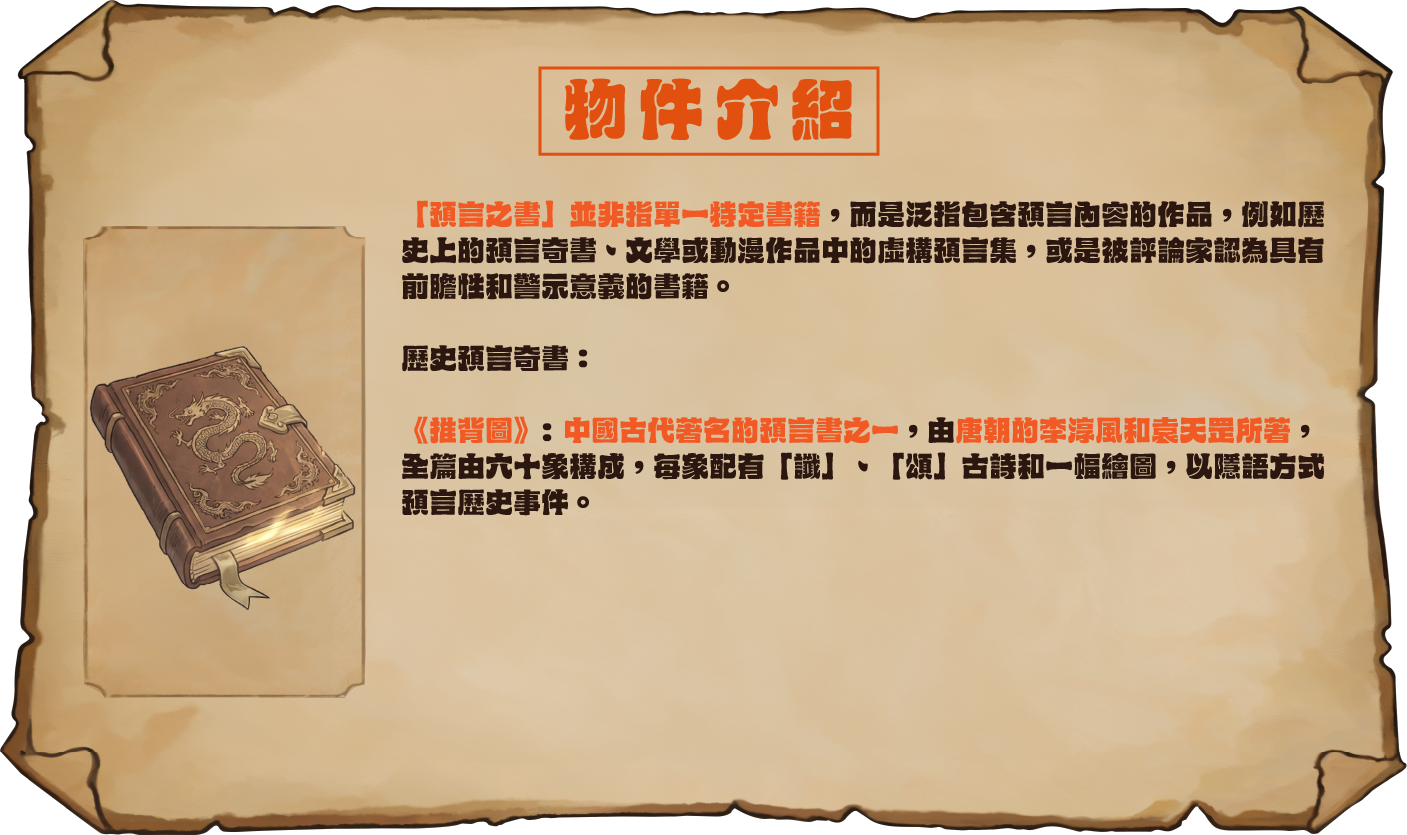
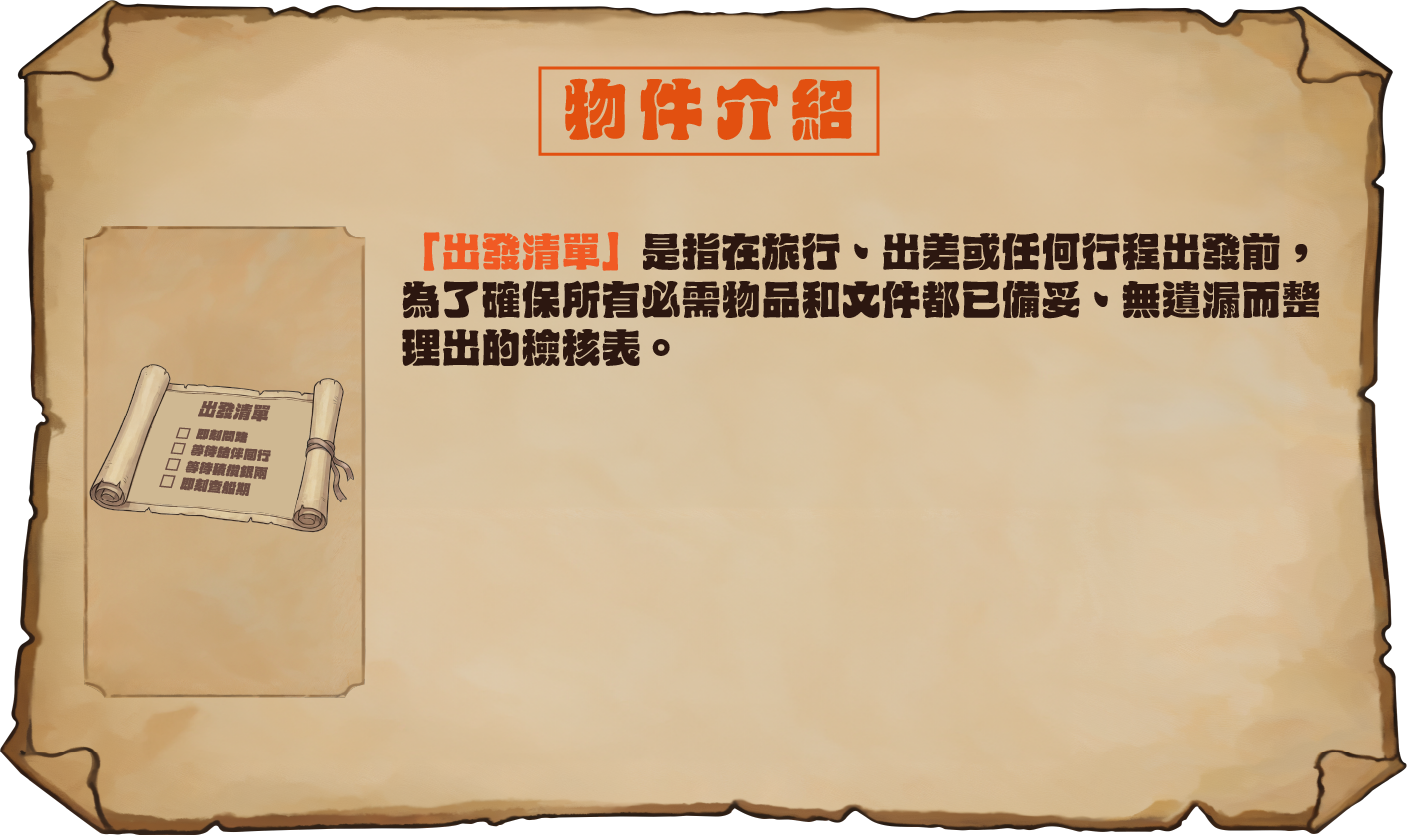
update item panel, game 1

Changed region(s): [[0.2751, 0.218, 0.9474, 0.4671], [0.0611, 0.4048, 0.9474, 0.7162]]

diff --git a/src/UI/Panel.js b/src/UI/Panel.js
@@ -240,40 +240,25 @@ export class ItemsPanel extends Phaser.GameObjects.Container {
 
         const itemsContent = [
             {
-                itemKey: 'itempage_item1',
-                itemSelectKey: 'itempage_item1_select',
-                itemDescriptionKey: 'itempage_item1_description'
+                itemKey: 'game7_itempage_item1',
+                itemSelectKey: 'game7_itempage_item1_select',
+                itemDescriptionKey: 'game1_object_description'
             },
             {
-                itemKey: 'itempage_item2',
-                itemSelectKey: 'itempage_item2_select',
-                itemDescriptionKey: 'itempage_item2_description'
+                itemKey: 'game7_itempage_item2',
+                itemSelectKey: 'game7_itempage_item2_select',
+                itemDescriptionKey: 'game2_object_description'
             },
 
             {
-                itemKey: 'itempage_item3',
-                itemSelectKey: 'itempage_item3_select',
-                itemDescriptionKey: 'itempage_item3_description'
+                itemKey: 'game7_itempage_item3',
+                itemSelectKey: 'game7_itempage_item3_select',
+                itemDescriptionKey: 'game3_object_description'
             },
             {
-                itemKey: 'itempage_item4',
-                itemSelectKey: 'itempage_item4_select',
-                itemDescriptionKey: 'itempage_item4_description'
-            },
-            {
-                itemKey: 'itempage_item5',
-                itemSelectKey: 'itempage_item5_select',
-                itemDescriptionKey: 'itempage_item5_description'
-            },
-            {
-                itemKey: 'itempage_item6',
-                itemSelectKey: 'itempage_item6_select',
-                itemDescriptionKey: 'itempage_item6_description'
-            },
-            {
-                itemKey: 'itempage_item7',
-                itemSelectKey: 'itempage_item7_select',
-                itemDescriptionKey: 'itempage_item7_description'
+                itemKey: 'game7_itempage_item4',
+                itemSelectKey: 'game7_itempage_item4_select',
+                itemDescriptionKey: 'game4_object_description'
             }
         ];
 

diff --git a/src/scenes/Game/GameScene_1.js b/src/scenes/Game/GameScene_1.js
@@ -213,20 +213,20 @@ export class GameScene_1 extends BaseGameScene {
 
         const currentFillPositions = this.targetContents.find(c => c.q === currentQuestionId).fillPositions;
 
-        // Debug graphics for fill positions
-        if (!this.fillDebugGraphics) {
-            this.fillDebugGraphics = this.add.graphics();
-        }
-        this.fillDebugGraphics.clear();
-        this.fillDebugGraphics.setDepth(250);
-        this.fillDebugGraphics.lineStyle(3, 0x00ff00, 1); // Green border
-        this.fillDebugGraphics.fillStyle(0x00ff00, 0.3); // Semi-transparent green fill
+        // // Debug graphics for fill positions
+        // if (!this.fillDebugGraphics) {
+        //     this.fillDebugGraphics = this.add.graphics();
+        // }
+        // this.fillDebugGraphics.clear();
+        // this.fillDebugGraphics.setDepth(250);
+        // this.fillDebugGraphics.lineStyle(3, 0x00ff00, 1); // Green border
+        // this.fillDebugGraphics.fillStyle(0x00ff00, 0.3); // Semi-transparent green fill
 
-        currentFillPositions.forEach((slot, index) => {
-            const radius = 30;
-            this.fillDebugGraphics.strokeCircle(slot.x, slot.y, radius);
-            this.fillDebugGraphics.fillCircle(slot.x, slot.y, radius);
-        });
+        // currentFillPositions.forEach((slot, index) => {
+        //     const radius = 30;
+        //     this.fillDebugGraphics.strokeCircle(slot.x, slot.y, radius);
+        //     this.fillDebugGraphics.fillCircle(slot.x, slot.y, radius);
+        // });
 
         // Build answerKey → fillAnswerKey lookup
         const choice = this.choices.find(c => c.q === currentQuestionId);

diff --git a/src/scenes/BootScene.js b/src/scenes/BootScene.js
@@ -63,17 +63,17 @@ export class BootScene extends Phaser.Scene {
 
         // dynamically load all known item assets
         const itemKeys = [
-            'itempage_item1',
-            'itempage_item1_select',
+            'game7_itempage_item1',
+            'game7_itempage_item1_select',
             'game1_object_description',
-            'itempage_item2_select',
-            'itempage_item2',
+            'game7_itempage_item2_select',
+            'game7_itempage_item2',
             'game2_object_description',
-            'itempage_item3',
-            'itempage_item3_select',
+            'game7_itempage_item3',
+            'game7_itempage_item3_select',
             'game3_object_description',
-            'itempage_item4',
-            'itempage_item4_select',
+            'game7_itempage_item4',
+            'game7_itempage_item4_select',
             'game4_object_description',
             'itempage_item_box',
             'itempage_bg',
